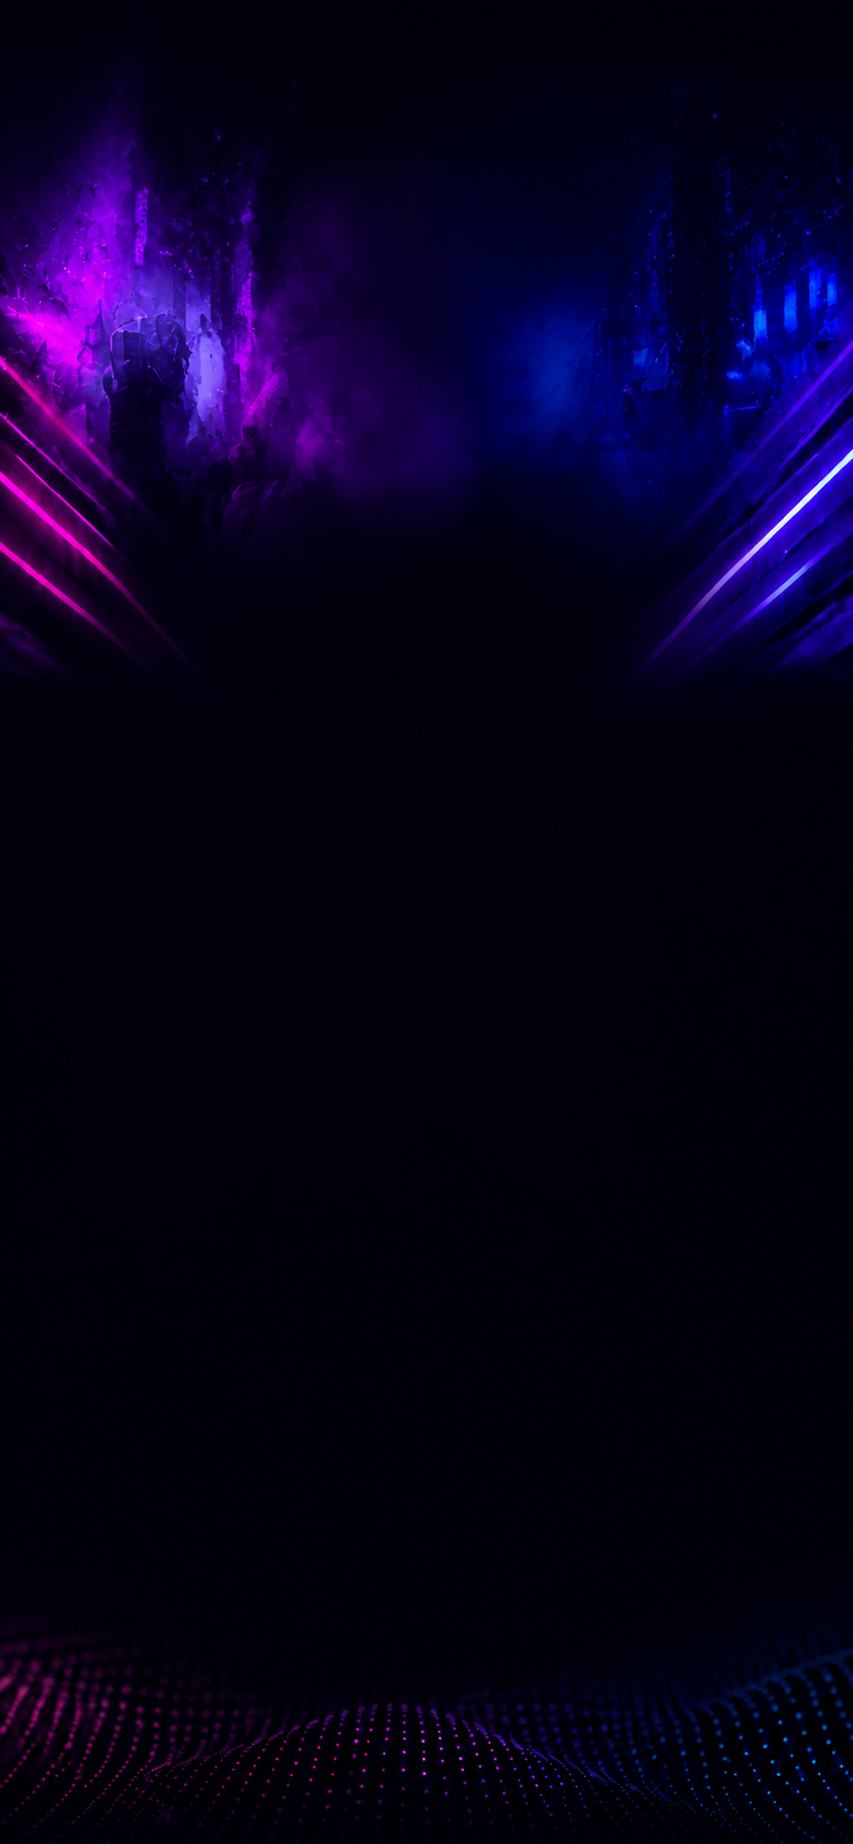
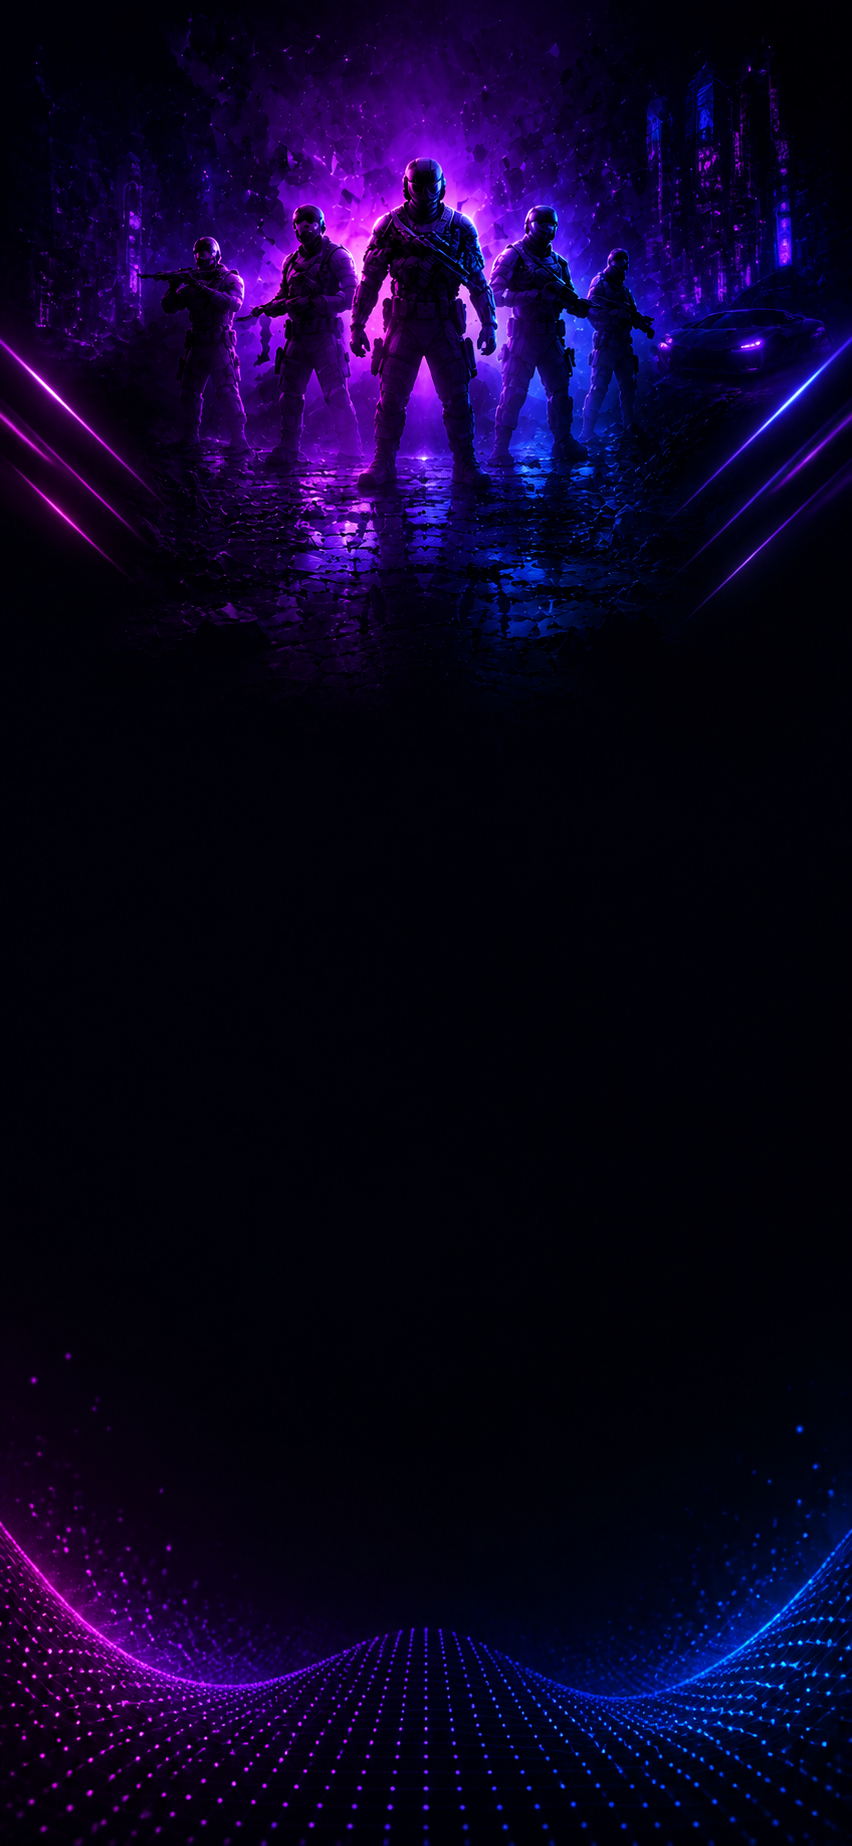
feat: chat page

Changed region(s): [[0.0, 0.0, 1.0, 0.3709], [0.0, 0.8037, 1.0, 1.0], [0.4272, 0.9892, 0.4577, 1.0]]

diff --git a/src/screens/ChatScreen.tsx b/src/screens/ChatScreen.tsx
@@ -8,7 +8,6 @@ import {
   KeyboardAvoidingView,
   Platform,
   Image,
-  ImageBackground,
   StyleSheet,
   Alert,
 } from 'react-native';
@@ -30,7 +29,8 @@ import {
 } from '../api/social';
 import { fetchGames } from '../api/games';
 import { getSocket } from '../socket';
-import { getGameImage, TEAM_CHAT_BACKGROUND } from '../theme/assets';
+import { getGameImage } from '../theme/assets';
+import { TeamScreenBackground } from '../components/ui/TeamScreenBackground';
 import { colors } from '../theme/tokens';
 import { useAuth } from '../store/authStore';
 import type { ChatMessage } from '../api/types';
@@ -183,7 +183,7 @@ export function ChatScreen({ navigation, route }: NativeStackScreenProps<any>) {
 
   if (!isGroup) {
     return (
-      <View style={styles.root}>
+      <TeamScreenBackground style={styles.root}>
         <StatusBar style="light" />
         <SafeAreaView style={{ flex: 1 }} edges={['top']}>
           <View style={styles.dmHeader}>
@@ -227,9 +227,9 @@ export function ChatScreen({ navigation, route }: NativeStackScreenProps<any>) {
                 <Text style={styles.dmSendText}>{t('chats.send')}</Text>
               </Pressable>
             </View>
-          </KeyboardAvoidingView>
-        </SafeAreaView>
-      </View>
+        </KeyboardAvoidingView>
+      </SafeAreaView>
+    </TeamScreenBackground>
     );
   }
 
@@ -408,12 +408,11 @@ export function ChatScreen({ navigation, route }: NativeStackScreenProps<any>) {
   };
 
   return (
-    <View style={styles.root}>
+    <TeamScreenBackground style={styles.root}>
       <StatusBar style="light" backgroundColor={PURE_BLACK} />
-      <ImageBackground source={TEAM_CHAT_BACKGROUND} style={styles.bgMesh} resizeMode="cover" />
 
       <LinearGradient
-        colors={['rgba(30,10,50,0.95)', 'rgba(10,5,20,0.88)', PURE_BLACK]}
+        colors={['rgba(30,10,50,0.55)', 'rgba(10,5,20,0.35)', 'transparent']}
         style={styles.headerGradient}
       >
         <SafeAreaView edges={['top']}>
@@ -515,7 +514,7 @@ export function ChatScreen({ navigation, route }: NativeStackScreenProps<any>) {
         behavior={Platform.OS === 'ios' ? 'padding' : undefined}
         keyboardVerticalOffset={0}
       >
-        <View style={{ flex: 1, backgroundColor: PURE_BLACK }}>{tabContent()}</View>
+        <View style={{ flex: 1 }}>{tabContent()}</View>
 
         {activeTab === 'chat' ? (
           <>
@@ -583,22 +582,13 @@ export function ChatScreen({ navigation, route }: NativeStackScreenProps<any>) {
           </>
         ) : null}
       </KeyboardAvoidingView>
-    </View>
+    </TeamScreenBackground>
   );
 }
 
 const styles = StyleSheet.create({
   root: {
     flex: 1,
-    backgroundColor: PURE_BLACK,
-  },
-  bgMesh: {
-    position: 'absolute',
-    left: 0,
-    right: 0,
-    bottom: 0,
-    height: 220,
-    opacity: 0.85,
   },
   headerGradient: {
     paddingBottom: 0,

diff --git a/src/screens/GroupDetailScreen.tsx b/src/screens/GroupDetailScreen.tsx
@@ -22,6 +22,7 @@ import type { NativeStackScreenProps } from '@react-navigation/native-stack';
 import { Avatar } from '../components/ui/Avatar';
 import { HexagonFrame, HexagonSuccessBadge } from '../components/ui/HexagonFrame';
 import { GradientButton } from '../components/ui/GradientButton';
+import { TeamScreenBackground } from '../components/ui/TeamScreenBackground';
 import {
   createGroupSchedule,
   fetchGroup,
@@ -150,18 +151,18 @@ export function GroupDetailScreen({ navigation, route }: NativeStackScreenProps<
 
   if (!group) {
     return (
-      <View style={[styles.root, styles.centered]}>
+      <TeamScreenBackground style={[styles.root, styles.centered]}>
         <StatusBar style="light" />
         <Text style={{ color: colors.ink.secondary }}>{t('common.loading')}</Text>
-      </View>
+      </TeamScreenBackground>
     );
   }
 
   return (
-    <View style={styles.root}>
+    <TeamScreenBackground style={styles.root}>
       <StatusBar style="light" backgroundColor={PURE_BLACK} />
       <LinearGradient
-        colors={['rgba(123,63,242,0.22)', 'rgba(0,209,255,0.08)', 'transparent']}
+        colors={['rgba(123,63,242,0.14)', 'rgba(0,209,255,0.05)', 'transparent']}
         style={styles.topGlow}
         pointerEvents="none"
       />
@@ -457,14 +458,13 @@ export function GroupDetailScreen({ navigation, route }: NativeStackScreenProps<
           </View>
         </Pressable>
       </Modal>
-    </View>
+    </TeamScreenBackground>
   );
 }
 
 const styles = StyleSheet.create({
   root: {
     flex: 1,
-    backgroundColor: PURE_BLACK,
   },
   centered: {
     alignItems: 'center',
@@ -799,7 +799,7 @@ const styles = StyleSheet.create({
     bottom: 0,
     paddingHorizontal: 16,
     paddingTop: 10,
-    backgroundColor: PURE_BLACK,
+    backgroundColor: 'rgba(0,0,0,0.32)',
     borderTopWidth: 1,
     borderTopColor: CARD_BORDER,
   },

diff --git a/src/screens/ProfileScreen.tsx b/src/screens/ProfileScreen.tsx
@@ -9,7 +9,8 @@ import type { NativeStackScreenProps } from '@react-navigation/native-stack';
 import { Screen } from '../components/ui/Screen';
 import { Card } from '../components/ui/Card';
 import { Avatar } from '../components/ui/Avatar';
-import { BottomTabBar, useBottomTabBarHeight, type TabKey } from '../components/BottomTabBar';
+import { BottomTabBar, useBottomTabBarHeight } from '../components/BottomTabBar';
+import { useMainTabs } from '../hooks/useMainTabs';
 import { Logo } from '../components/ui/Logo';
 import { useAuth } from '../store/authStore';
 import { fetchGames } from '../api/games';
@@ -133,6 +134,7 @@ function MenuRow({ icon, iconColor, label, badge, onPress, isLast }: MenuProps) 
 
 export function ProfileScreen({ navigation }: NativeStackScreenProps<any>) {
   const { t } = useTranslation();
+  const tabs = useMainTabs(navigation, 'profile');
   const tabBarHeight = useBottomTabBarHeight();
   const user = useAuth((s) => s.user);
   const logout = useAuth((s) => s.logout);
@@ -145,19 +147,6 @@ export function ProfileScreen({ navigation }: NativeStackScreenProps<any>) {
   const xpCurrent = 0;
   const xpNext = 1000;
   const xpPercent = Math.min(100, (xpCurrent / xpNext) * 100);
-
-  const tabs: Array<{
-    key: TabKey;
-    icon: 'home' | 'calendar' | 'people' | 'chatbubble' | 'person';
-    label: string;
-    onPress?: () => void;
-  }> = [
-    { key: 'home', icon: 'home', label: t('tabs.home'), onPress: () => navigation.navigate('Home') },
-    { key: 'sessions', icon: 'calendar', label: t('tabs.sessions'), onPress: () => navigation.navigate('Home') },
-    { key: 'matches', icon: 'people', label: t('tabs.matches') },
-    { key: 'messages', icon: 'chatbubble', label: t('tabs.messages') },
-    { key: 'profile', icon: 'person', label: t('tabs.profile') },
-  ];
 
   return (
     <Screen padded={false}>

diff --git a/src/screens/CreateGroupScreen.tsx b/src/screens/CreateGroupScreen.tsx
@@ -22,6 +22,7 @@ import * as ImagePicker from 'expo-image-picker';
 import type { NativeStackScreenProps } from '@react-navigation/native-stack';
 
 import { Avatar } from '../components/ui/Avatar';
+import { TeamScreenBackground } from '../components/ui/TeamScreenBackground';
 import { GradientButton } from '../components/ui/GradientButton';
 import { createGroup, fetchRecentPlayers } from '../api/social';
 import { fetchGames } from '../api/games';
@@ -219,7 +220,7 @@ export function CreateGroupScreen({ navigation }: NativeStackScreenProps<any>) {
   const footerBottom = Math.max(insets.bottom, 12);
 
   return (
-    <View style={styles.root}>
+    <TeamScreenBackground style={styles.root}>
       <StatusBar style="light" backgroundColor={PURE_BLACK} />
       <SafeAreaView style={styles.safe} edges={['top']}>
         <View style={styles.header}>
@@ -454,18 +455,16 @@ export function CreateGroupScreen({ navigation }: NativeStackScreenProps<any>) {
           </Pressable>
         </Pressable>
       </Modal>
-    </View>
+    </TeamScreenBackground>
   );
 }
 
 const styles = StyleSheet.create({
   root: {
     flex: 1,
-    backgroundColor: PURE_BLACK,
   },
   safe: {
     flex: 1,
-    backgroundColor: PURE_BLACK,
   },
   header: {
     flexDirection: 'row',
@@ -771,7 +770,7 @@ const styles = StyleSheet.create({
     bottom: 0,
     paddingHorizontal: 16,
     paddingTop: 10,
-    backgroundColor: PURE_BLACK,
+    backgroundColor: 'rgba(0,0,0,0.32)',
     borderTopWidth: 1,
     borderTopColor: 'rgba(255,255,255,0.06)',
   },

diff --git a/src/screens/GroupsScreen.tsx b/src/screens/GroupsScreen.tsx
@@ -23,6 +23,7 @@ import { BottomTabBar, useBottomTabBarHeight } from '../components/BottomTabBar'
 import { GroupInviteCard } from '../components/GroupInviteCard';
 import { Avatar } from '../components/ui/Avatar';
 import { HexagonFrame } from '../components/ui/HexagonFrame';
+import { TeamScreenBackground } from '../components/ui/TeamScreenBackground';
 import { useMainTabs } from '../hooks/useMainTabs';
 import { useAuth } from '../store/authStore';
 import {
@@ -260,7 +261,7 @@ export function GroupsScreen({ navigation }: NativeStackScreenProps<any>) {
   const listHeader = (
     <View style={styles.headerBlock}>
       <LinearGradient
-        colors={['rgba(123,63,242,0.2)', 'transparent']}
+        colors={['rgba(123,63,242,0.12)', 'transparent']}
         style={styles.headerGlow}
         pointerEvents="none"
       />
@@ -444,7 +445,7 @@ export function GroupsScreen({ navigation }: NativeStackScreenProps<any>) {
   };
 
   return (
-    <View style={styles.root}>
+    <TeamScreenBackground style={styles.root}>
       <StatusBar style="light" backgroundColor={PURE_BLACK} />
       <SafeAreaView style={styles.safe} edges={['top']}>
         <FlatList
@@ -462,14 +463,13 @@ export function GroupsScreen({ navigation }: NativeStackScreenProps<any>) {
         />
       </SafeAreaView>
       <BottomTabBar active="sessions" tabs={tabs} />
-    </View>
+    </TeamScreenBackground>
   );
 }
 
 const styles = StyleSheet.create({
   root: {
     flex: 1,
-    backgroundColor: PURE_BLACK,
   },
   safe: {
     flex: 1,

diff --git a/src/screens/RecentPlayersScreen.tsx b/src/screens/RecentPlayersScreen.tsx
@@ -14,6 +14,7 @@ import { BottomTabBar, useBottomTabBarHeight } from '../components/BottomTabBar'
 import { GroupInviteCard } from '../components/GroupInviteCard';
 import { Logo } from '../components/ui/Logo';
 import { Avatar } from '../components/ui/Avatar';
+import { TeamScreenBackground } from '../components/ui/TeamScreenBackground';
 import { useMainTabs } from '../hooks/useMainTabs';
 import {
   fetchPendingGroupInvites,
@@ -304,7 +305,7 @@ export function RecentPlayersScreen({ navigation }: NativeStackScreenProps<any>)
   const showCreateGroupDock = filter !== 'invitations';
 
   return (
-    <View style={styles.root}>
+    <TeamScreenBackground style={styles.root}>
       <StatusBar style="light" backgroundColor={PURE_BLACK} />
       <SafeAreaView style={styles.page} edges={['top']}>
           <View style={styles.topBar}>
@@ -420,18 +421,16 @@ export function RecentPlayersScreen({ navigation }: NativeStackScreenProps<any>)
       ) : null}
 
       <BottomTabBar active="matches" tabs={tabs} />
-    </View>
+    </TeamScreenBackground>
   );
 }
 
 const styles = StyleSheet.create({
   root: {
     flex: 1,
-    backgroundColor: PURE_BLACK,
   },
   page: {
     flex: 1,
-    backgroundColor: PURE_BLACK,
   },
   topBar: {
     flexDirection: 'row',

diff --git a/src/screens/ChatsScreen.tsx b/src/screens/ChatsScreen.tsx
@@ -21,6 +21,7 @@ import type { NativeStackScreenProps } from '@react-navigation/native-stack';
 import { BottomTabBar, useBottomTabBarHeight } from '../components/BottomTabBar';
 import { GroupInviteCard } from '../components/GroupInviteCard';
 import { Avatar } from '../components/ui/Avatar';
+import { TeamScreenBackground } from '../components/ui/TeamScreenBackground';
 import { useMainTabs } from '../hooks/useMainTabs';
 import { useAuth } from '../store/authStore';
 import {
@@ -392,7 +393,7 @@ export function ChatsScreen({ navigation }: NativeStackScreenProps<any>) {
   };
 
   return (
-    <View style={styles.root}>
+    <TeamScreenBackground style={styles.root}>
       <StatusBar style="light" backgroundColor={PURE_BLACK} />
       <SafeAreaView style={styles.safe} edges={['top']}>
         <FlatList
@@ -410,14 +411,13 @@ export function ChatsScreen({ navigation }: NativeStackScreenProps<any>) {
         />
       </SafeAreaView>
       <BottomTabBar active="messages" tabs={tabs} />
-    </View>
+    </TeamScreenBackground>
   );
 }
 
 const styles = StyleSheet.create({
   root: {
     flex: 1,
-    backgroundColor: PURE_BLACK,
   },
   safe: {
     flex: 1,

diff --git a/src/components/ui/TeamScreenBackground.tsx b/src/components/ui/TeamScreenBackground.tsx
@@ -1,0 +1,45 @@
+import React from 'react';
+import { ImageBackground, StyleSheet, type StyleProp, type ViewStyle } from 'react-native';
+import { LinearGradient } from 'expo-linear-gradient';
+import { TEAM_SCREEN_BACKGROUND } from '../../theme/assets';
+
+interface Props {
+  children: React.ReactNode;
+  style?: StyleProp<ViewStyle>;
+}
+
+/**
+ * Full-screen `team bg.png` with a light gradient scrim so the mesh stays visible
+ * while foreground text remains readable.
+ */
+export function TeamScreenBackground({ children, style }: Props) {
+  return (
+    <ImageBackground
+      source={TEAM_SCREEN_BACKGROUND}
+      style={[styles.background, style]}
+      resizeMode="cover"
+    >
+      <LinearGradient
+        colors={[
+          'rgba(0, 0, 0, 0.48)',
+          'rgba(0, 0, 0, 0.22)',
+          'rgba(0, 0, 0, 0.30)',
+        ]}
+        locations={[0, 0.45, 1]}
+        style={styles.scrim}
+      >
+        {children}
+      </LinearGradient>
+    </ImageBackground>
+  );
+}
+
+const styles = StyleSheet.create({
+  background: {
+    flex: 1,
+    backgroundColor: '#000000',
+  },
+  scrim: {
+    flex: 1,
+  },
+});

diff --git a/src/theme/assets.ts b/src/theme/assets.ts
@@ -70,7 +70,10 @@ export function getGameImage(gameId: string): ImageSourcePropType | null {
 }
 
 // ──────────────────────────────────────────────────────────────────────
-// 4) GROUP CHAT — decorative footer mesh behind quick-action buttons
+// 4) TEAM SCREEN BACKGROUND — mesh glow used on group/social/chat screens
 //    Path:  Frontend/assets/team bg.png
 // ──────────────────────────────────────────────────────────────────────
-export const TEAM_CHAT_BACKGROUND: ImageSourcePropType = require('../../assets/team bg.png');
+export const TEAM_SCREEN_BACKGROUND: ImageSourcePropType = require('../../assets/team bg.png');
+
+/** @deprecated Use TEAM_SCREEN_BACKGROUND */
+export const TEAM_CHAT_BACKGROUND = TEAM_SCREEN_BACKGROUND;
